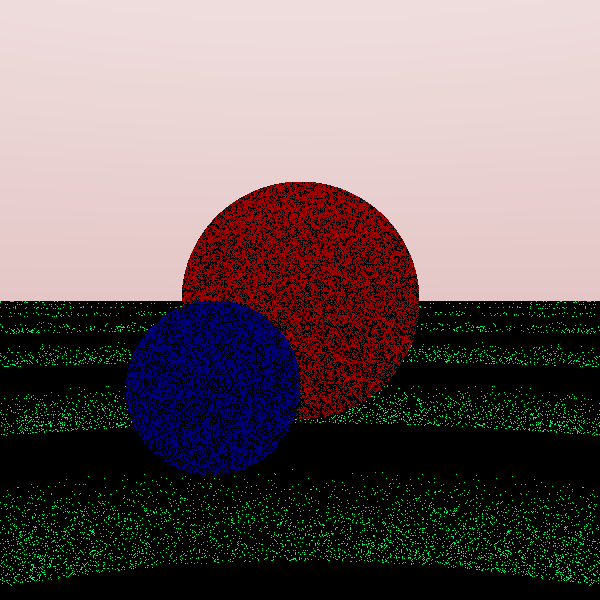
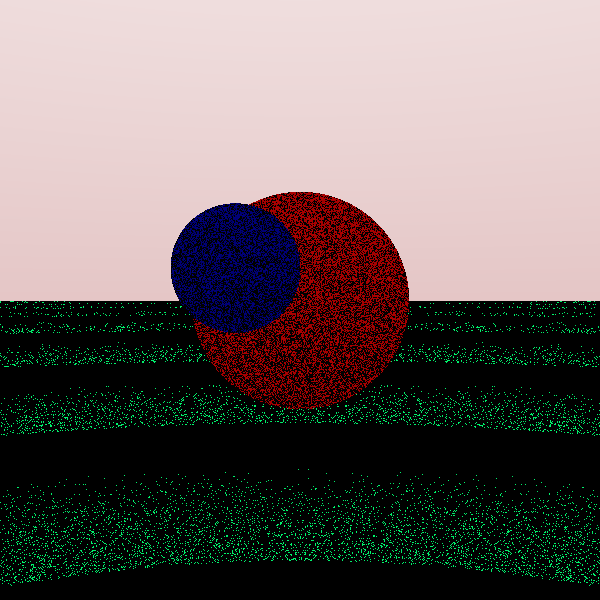
added new camera and new shading, but shading needs rework.

Changed region(s): [[0.21, 0.3, 0.72, 0.81]]

diff --git a/src/core/Main.java b/src/core/Main.java
@@ -108,40 +108,41 @@ public class Main
 
     public static void createAndAddObjects()
     {
-        Sphere mySphere_1 = new Sphere(new Vector3D(-2.0, -2, -2.5), 1.0, new Material(MaterialType.DIFFUSE, new Vector3D(0, 0.0, 0.3)));
-        Sphere mySphere_4 = new Sphere(new Vector3D(0, 0, -1.0), 2.0, new Material(MaterialType.DIFFUSE, new Vector3D(0.5, 0, 0)));
-        Sphere mySphere_2 = new Sphere(new Vector3D(-3.0, -1.0, -2.5), 2.0, new Material(MaterialType.DIFFUSE, new Vector3D(0.6, 0.4, 0.4)));
-        Sphere mySphere_3 = new Sphere(new Vector3D(-4.0, 0.0, -1.5), 1.0, new Material(MaterialType.DIFFUSE, new Vector3D(0.1, 0.2, 0.6)));
+        Sphere mySphere_1 = new Sphere(new Vector3D(-1, -0.5, 0), 1.0, new Material(MaterialType.LAMBERTIAN, new Vector3D(0, 0.0, 0.3)));
+        Sphere mySphere_4 = new Sphere(new Vector3D(0, 0, -2.0), 2.0, new Material(MaterialType.LAMBERTIAN, new Vector3D(0.5, 0, 0)));
+        Sphere mySphere_2 = new Sphere(new Vector3D(-3.0, -1.0, -2.5), 2.0, new Material(MaterialType.LAMBERTIAN, new Vector3D(0.6, 0.4, 0.4)));
+        Sphere mySphere_3 = new Sphere(new Vector3D(-4.0, 0.0, -1.5), 1.0, new Material(MaterialType.LAMBERTIAN, new Vector3D(0.1, 0.2, 0.6)));
         Vector3D[] list = new Vector3D[3];
 
         list[0] = new Vector3D(1, 1, 9);
         list[1] = new Vector3D(2, -2, 8);
         list[2] = new Vector3D(4, 1, 8);
 
-        Triangle tri = new Triangle(list, new Material(MaterialType.DIFFUSE, new Vector3D(0.5, 0.5, 0)));
+        Triangle tri = new Triangle(list, new Material(MaterialType.LAMBERTIAN, new Vector3D(0.5, 0.5, 0)));
         
         Vector3D[] list2 = new Vector3D[3];
         list2[0] = new Vector3D(4, 0, 3);
         list2[1] = new Vector3D(2, 2, 3);
         list2[2] = new Vector3D(7, 4, 0);
 
-        Triangle tri2 = new Triangle(list2, new Material(MaterialType.DIFFUSE, new Vector3D(0.5, 0.5, 0)));
+        Triangle tri2 = new Triangle(list2, new Material(MaterialType.LAMBERTIAN, new Vector3D(0.5, 0.5, 0)));
         
 
-        shapeList.add(mySphere_1);
+        //shapeList.add(mySphere_1);
         //shapeList.add(mySphere_2);
         //shapeList.add(mySphere_3);
 
         //lane p = new Plane(new Vector3D(0, 0, -5), new Material(new Color(0, 255, 0)));
 
-        Plane plane = new Plane(0, 1, 0, -3, new Material(MaterialType.DIFFUSE, new Vector3D(0.0, 1, 0.2)));
-        TTriangle tTriangle = new TTriangle(new Vector3D(0, 0, -1), new Vector3D(1, 1, 3), new Vector3D(2, 0, -1), new Material(MaterialType.DIFFUSE, new Vector3D(0.0, 0.0, 1)));
+        Plane plane = new Plane(0, 1, 0, -3, new Material(MaterialType.LAMBERTIAN, new Vector3D(0.0, 1, 0.2)));
 
-        shapeList.add(tri);
+        TTriangle tTriangle = new TTriangle(new Vector3D(0, 0, -1), new Vector3D(1, 1, 3), new Vector3D(2, 0, -1), new Material(MaterialType.LAMBERTIAN, new Vector3D(0.0, 0.0, 1)));
+
+        //shapeList.add(tri);
         //shapeList.add(tri2);
-        //shapeList.add(plane);
-        //shapeList.add(mySphere_1);
-        //shapeList.add(mySphere_4);
+        shapeList.add(plane);
+        shapeList.add(mySphere_1);
+        shapeList.add(mySphere_4);
 
         oclusionObject = new OclusionObject(shapeList);
 
